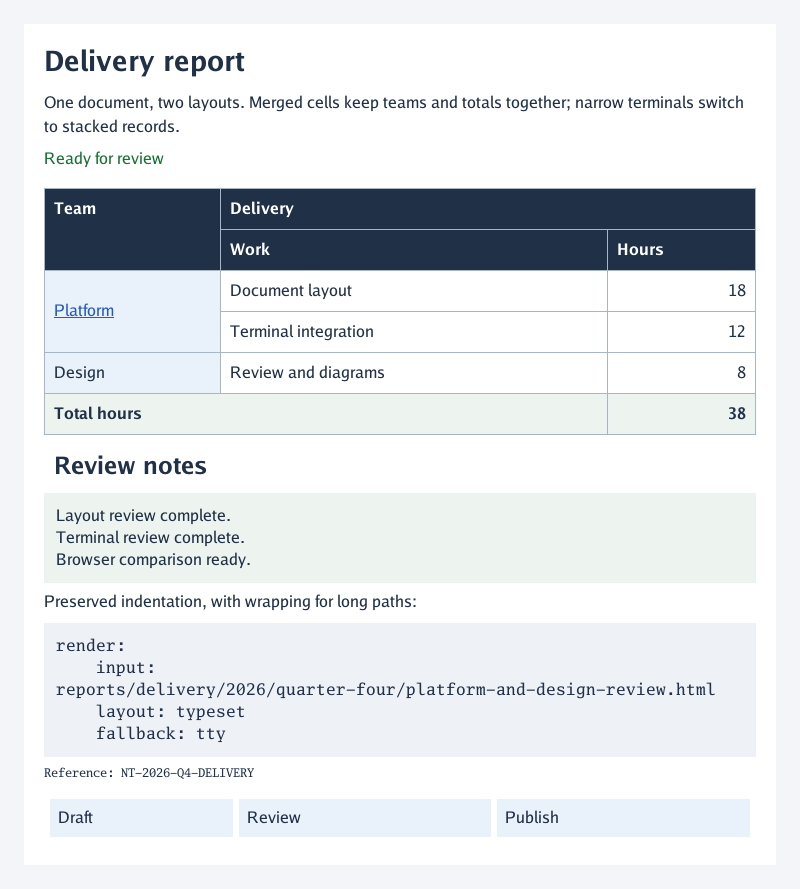
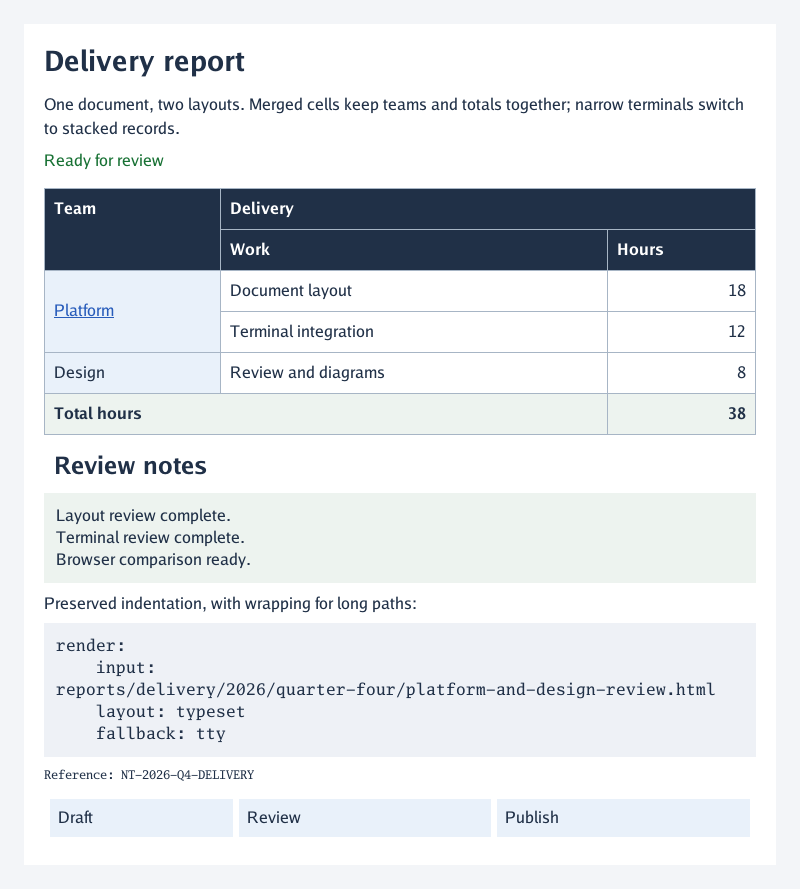
Resolve all runnable WPT failures for Phase 1 conformance
Use CSS black as the initial root foreground color, size auto-width tables to their shrink-to-fit preferred width while respecting min/max constraints and horizontal auto margins, and preserve line-breaking opportunities across normal whitespace between adjacent nowrap spans. Advance all 7 failing WPT cases to PASS (125 PASS, 0 FAIL, 75 UNSUPPORTED).

Changed region(s): [[0.0625, 0.0911, 0.9375, 0.2126], [0.0625, 0.6682, 0.5312, 0.6985], [0.0625, 0.8504, 0.3125, 0.8808]]

diff --git a/examples/demo/documents/invoice.html b/examples/demo/documents/invoice.html
@@ -5,7 +5,7 @@ h2 { font-size: 20px; }
 .paper { background: #ffffff; padding: 24px; }
 .label { color: #66758b; font-size: 14px; }
 .note { background: #eaf1ff; padding: 16px; margin: 8px; }
-table { border-collapse: collapse; }
+table { width: 100%; border-collapse: collapse; }
 th { padding: 12px; background: #203047; color: #ffffff; }
 td { padding: 12px; border: 1px solid #dce3ed; }
 .amount { text-align: right; vertical-align: middle; }

diff --git a/examples/demo/sample.html b/examples/demo/sample.html
@@ -1,5 +1,6 @@
 <style>
 body { margin:0; padding: 24px; background: #f4f6fb; color: #233148; }
+table { width: 100%; }
 h1 { color: #2948a0; }
 .card { padding: 18px; margin: 12px; background: #ffffff; border: 1px solid #d3dced; }
 th { background: #dce5fa; padding: 10px; }

diff --git a/examples/demo/documents/status-report.html b/examples/demo/documents/status-report.html
@@ -1,5 +1,6 @@
 <style>
 body { margin:0; padding: 28px; background: #111b2b; color: #dce6f3; }
+table { width: 100%; }
 h1 { font-size: 32px; color: #ffffff; }
 h2 { font-size: 22px; color: #86c8ff; }
 .muted { color: #9aafc7; font-size: 14px; }

diff --git a/examples/demo/documents/guide.html b/examples/demo/documents/guide.html
@@ -1,5 +1,6 @@
 <style>
 body { margin:0; padding: 24px; background: #f4f6fb; color: #233148; }
+table { width: 100%; }
 h1 { color: #2948a0; }
 h2 { color: #2948a0; }
 pre { background: #e6ecf5; padding: 16px; }

diff --git a/document/table.go b/document/table.go
@@ -98,23 +98,23 @@ func tableWidths(minimum, preferred []int, width int) []int {
 	return base
 }
 
-func (l *layout) table(n *node, x, y, w, parentHeight int, s style) int {
-	for _, child := range n.children {
-		if child.tag == "caption" {
-			y = l.block(child, x, y, w, parentHeight, s)
-		}
-	}
+func (l *layout) table(n *node, x, y, w, parentHeight int, autoWidth bool, minWidth int, s style) (int, int) {
 	rows, columns, err := l.d.collectTable(n, s, l.tableStep)
 	if err != nil {
 		l.err = err
-		return y
+		return y, w
 	}
 	if columns > 256 || columns > w {
 		l.err = limitError("table columns")
-		return y
+		return y, w
 	}
 	if columns == 0 {
-		return y
+		for _, child := range n.children {
+			if child.tag == "caption" {
+				y = l.block(child, x, y, w, parentHeight, s)
+			}
+		}
+		return y, w
 	}
 	minimum, preferred := make([]int, columns), make([]int, columns)
 	sx, sy := s.spacing[0], s.spacing[1]
@@ -132,7 +132,28 @@ func (l *layout) table(n *node, x, y, w, parentHeight int, s style) int {
 		}
 	}
 	if l.err != nil {
-		return y
+		return y, w
+	}
+	if autoWidth {
+		pref := sx * (columns + 1)
+		for _, v := range preferred {
+			pref += v
+		}
+		for _, child := range n.children {
+			if child.tag == "caption" {
+				cs := l.d.styled(child, s)
+				if cs.display != "none" {
+					_, b := l.preferredCell(child, cs, w)
+					pref = max(pref, b)
+				}
+			}
+		}
+		w = max(columns+sx*(columns+1), min(w, max(minWidth, pref)))
+	}
+	for _, child := range n.children {
+		if child.tag == "caption" {
+			y = l.block(child, x, y, w, parentHeight, s)
+		}
 	}
 	widths := tableWidths(minimum, preferred, w-sx*(columns+1))
 	xs := []int{x + sx}
@@ -143,7 +164,7 @@ func (l *layout) table(n *node, x, y, w, parentHeight int, s style) int {
 	if s.collapse {
 		grid = l.collapseGrid(rows, columns, s)
 		if l.err != nil {
-			return y
+			return y, w
 		}
 	}
 	type laidCell struct {
@@ -173,7 +194,7 @@ func (l *layout) table(n *node, x, y, w, parentHeight int, s style) int {
 	for ri, row := range rows {
 		for i, cell := range row.cells {
 			if !l.tableStep() {
-				return y
+				return y, w
 			}
 			sp := row.spans[i]
 			width := xs[sp.col+sp.cols] - xs[sp.col] - sx
@@ -190,8 +211,8 @@ func (l *layout) table(n *node, x, y, w, parentHeight int, s style) int {
 				}
 				cs.bw = 0
 			}
-			cs.bw = min(cs.bw, max(0, (width-1)/2))
-			room := max(0, width-2*cs.bw-1)
+			cs.bw = min(cs.bw, max(0, width/2))
+			room := max(0, width-2*cs.bw)
 			if padding[1]+padding[3] > room {
 				sides := apportion([]int{padding[3], padding[1]}, room)
 				padding[3], padding[1] = sides[0], sides[1]
@@ -216,10 +237,10 @@ func (l *layout) table(n *node, x, y, w, parentHeight int, s style) int {
 	}
 	if rowY[len(rowY)-1] > l.d.limits.Height {
 		l.err = limitError("table height")
-		return y
+		return y, w
 	}
 	if l.err != nil {
-		return y
+		return y, w
 	}
 	for ri, row := range rows {
 		top, bottom := rowY[ri], rowY[ri+1]-sy
@@ -266,5 +287,5 @@ func (l *layout) table(n *node, x, y, w, parentHeight int, s style) int {
 	if grid != nil {
 		grid.paint(l, x, widths, rowY)
 	}
-	return rowY[len(rowY)-1]
+	return rowY[len(rowY)-1], w
 }

diff --git a/document/layout.go b/document/layout.go
@@ -113,7 +113,7 @@ func (d *Document) Render(ctx context.Context, o Options) (*Result, error) {
 			f.Close()
 		}
 	}()
-	h := l.block(d.root, 0, 0, o.Width, -1, style{rootSize: 16, size: 16, line: 22, fg: color.RGBA{30, 36, 46, 255}})
+	h := l.block(d.root, 0, 0, o.Width, -1, style{rootSize: 16, size: 16, line: 22, fg: color.RGBA{0, 0, 0, 255}})
 	if l.err != nil {
 		return nil, l.err
 	}
@@ -279,7 +279,26 @@ func (l *layout) blockStyled(n *node, x, y, w, parentHeight int, s style) int {
 	if kind, source := diagramSource(n); kind != "" {
 		cy = l.diagram(n, kind, source, cx, cy, cw, height, s)
 	} else if n.tag == "table" {
-		cy = l.table(n, cx, cy, cw, height, tableStyle)
+		minContent := 0
+		if s.minWidth.definite(basisWidth) {
+			minContent = s.minWidth.resolve(basisWidth, 16384)
+			if s.borderBox {
+				minContent = max(0, minContent-extra)
+			}
+		}
+		cy, cw = l.table(n, cx, cy, cw, height, !tableStyle.width.definite(basisWidth), minContent, tableStyle)
+		used := min(w, cw+extra)
+		if !tableStyle.width.definite(basisWidth) && s.margin[3].unit == lengthAuto {
+			spare := max(0, w-used)
+			if s.margin[1].unit == lengthAuto {
+				spare /= 2
+			}
+			x += spare
+			for i := opStart + 1; i < len(l.ops); i++ {
+				l.ops[i].box.translate(image.Pt(spare, 0))
+			}
+		}
+		w = used
 	} else if n.tag == "ul" || n.tag == "ol" {
 		index := listStart(n)
 		for _, child := range n.children {
@@ -456,6 +475,7 @@ func (l *layout) flow(nodes []*node, x, y, w int, s style) int {
 		lineReady = true
 	}
 	pendingSpace := false
+	spaceWraps := false
 	preStart := true
 	preColumn := 0
 	prefix := "\n"
@@ -483,6 +503,7 @@ func (l *layout) flow(nodes []*node, x, y, w int, s style) int {
 		lineReady = false
 		lineStart = len(l.ops)
 		hasText = false
+		spaceWraps = false
 	}
 	var visit func(*node, style)
 	visit = func(n *node, st style) {
@@ -626,7 +647,11 @@ func (l *layout) flow(nodes []*node, x, y, w int, s style) int {
 					space = glyphAdvance(f, ' ', st.wordSpacing)
 				}
 				ww := measureText(f, word, st.wordSpacing)
-				if st.whiteSpace != "nowrap" && px > x && px+space+ww > x+w {
+				checkW := ww
+				if st.whiteSpace == "nowrap" && spaceWraps {
+					checkW = measureText(f, strings.Join(strings.Fields(text), " "), st.wordSpacing)
+				}
+				if (st.whiteSpace != "nowrap" || spaceWraps) && px > x && px+space+checkW > x+w {
 					newline()
 					prepareLine()
 					space = 0
@@ -656,6 +681,7 @@ func (l *layout) flow(nodes []*node, x, y, w int, s style) int {
 				}
 				emit()
 				pendingSpace = false
+				spaceWraps = false
 			}
 			if i < 0 {
 				break
@@ -668,6 +694,9 @@ func (l *layout) flow(nodes []*node, x, y, w int, s style) int {
 					pendingSpace = false
 				} else {
 					pendingSpace = true
+					if st.whiteSpace != "nowrap" {
+						spaceWraps = true
+					}
 				}
 				text = text[1:]
 			}

diff --git a/document/units_colors_test.go b/document/units_colors_test.go
@@ -129,7 +129,7 @@ func TestZeroWidthDoesNotPaintBackground(t *testing.T) {
 }
 
 func TestTranslucentTableBackgroundPaintsOnce(t *testing.T) {
-	r := renderCSS(t, `<table style="background:rgba(255,0,0,.5)"><tr><td style="height:20px"></td></tr></table>`)
+	r := renderCSS(t, `<table style="background:rgba(255,0,0,.5)"><tr><td style="width:20px;height:20px"></td></tr></table>`)
 	if c := r.Image.RGBAAt(5, 5); c != (color.RGBA{255, 127, 127, 255}) {
 		t.Fatal("table background applied again on row", c)
 	}
@@ -144,11 +144,22 @@ func TestPhysicalAndPixelLayoutEquivalent(t *testing.T) {
 }
 
 func TestAlphaBorderCornersPaintOnce(t *testing.T) {
-	for _, source := range []string{`<article style="width:20px;height:20px;border:rgba(255,0,0,.5) solid 2px"></article>`, `<table><tr><td style="height:20px;border:rgba(255,0,0,.5) solid 2px"></td></tr></table>`} {
+	for _, source := range []string{`<article style="width:20px;height:20px;border:rgba(255,0,0,.5) solid 2px"></article>`, `<table><tr><td style="width:20px;height:20px;border:rgba(255,0,0,.5) solid 2px"></td></tr></table>`} {
 		r := renderCSS(t, source)
 		corner, edge := r.Image.RGBAAt(0, 0), r.Image.RGBAAt(5, 0)
 		if corner != edge || corner != (color.RGBA{255, 127, 127, 255}) {
 			t.Fatal("overlapping border corners", corner, edge)
 		}
+	}
+}
+
+func TestDefaultForegroundIsCSSBlack(t *testing.T) {
+	r := renderCSS(t, `<div style="width:20px;height:20px;border:2px solid">text</div>`)
+	black := color.RGBA{0, 0, 0, 255}
+	if got := r.Image.RGBAAt(0, 0); got != black {
+		t.Fatalf("expected default border currentColor black, got %v", got)
+	}
+	if got := tagged(r, "text").Color; got != black {
+		t.Fatalf("expected default text color black, got %v", got)
 	}
 }

diff --git a/document/table_intrinsic.go b/document/table_intrinsic.go
@@ -86,13 +86,17 @@ func (l *layout) preferredCell(n *node, s style, basis int) (int, int) {
 			l.err = err
 			return 1, 1
 		}
+		sx := s.spacing[0]
+		if s.collapse {
+			sx = 0
+		}
 		mins, prefs := make([]int, cols), make([]int, cols)
 		for _, row := range rows {
 			for i, cell := range row.cells {
 				a, b := l.preferredCell(cell, row.styles[i], basis)
 				sp := row.spans[i]
-				spreadRequirement(mins, sp.col, sp.cols, a)
-				spreadRequirement(prefs, sp.col, sp.cols, b)
+				spreadRequirement(mins, sp.col, sp.cols, max(1, a-sx*(sp.cols-1)))
+				spreadRequirement(prefs, sp.col, sp.cols, max(1, b-sx*(sp.cols-1)))
 			}
 		}
 		for i := range mins {
@@ -121,7 +125,11 @@ func (l *layout) preferredCell(n *node, s style, basis int) (int, int) {
 		flushLine()
 	}
 	p := resolveEdges(s.padding, basis)
-	extra := p[1] + p[3] + 2*s.bw
+	bw := s.bw
+	if n.tag == "table" && s.collapse {
+		bw = 0
+	}
+	extra := p[1] + p[3] + 2*bw
 	if n.tag != "td" && n.tag != "th" {
 		m := resolveEdges(s.margin, basis)
 		extra += m[1] + m[3]

diff --git a/document/whitespace_test.go b/document/whitespace_test.go
@@ -101,3 +101,18 @@ func TestAnchoredPreInitialNewline(t *testing.T) {
 		t.Fatal("anchor lost")
 	}
 }
+
+func TestAdjacentNowrapSpanWrapping(t *testing.T) {
+	r := renderCSS(t, `<div style="width:90px;white-space:normal"><span style="white-space:nowrap">alpha </span> <span style="white-space:nowrap">bravo </span> <span style="white-space:nowrap">charlie </span></div>`)
+	boxes := boxesWithTag(r, "text")
+	if len(boxes) < 3 || boxes[len(boxes)-1].Bounds.Min.Y <= boxes[0].Bounds.Min.Y {
+		t.Fatalf("expected adjacent nowrap spans separated by normal spaces to wrap: %v", boxes)
+	}
+	text, err := r.TTY(context.Background(), 10)
+	if err != nil {
+		t.Fatal(err)
+	}
+	if !strings.Contains(text, "\n") {
+		t.Fatalf("expected TTY wrapping between nowrap spans: %q", text)
+	}
+}

diff --git a/document/table_intrinsic_test.go b/document/table_intrinsic_test.go
@@ -120,3 +120,15 @@ func TestIntrinsicImageWidth(t *testing.T) {
 		t.Fatal("image intrinsic width ignored")
 	}
 }
+func TestAutoWidthTableShrinksAndCenters(t *testing.T) {
+	r := renderCSS(t, `<table style="border:10px solid green;border-spacing:12px;margin:0 auto"><tr><td style="border:4px solid green;padding:8px 16px"></td></tr></table>`)
+	tb := tagged(r, "table")
+	td := tagged(r, "td")
+	// td outer width = 2*16 + 2*4 = 40; table outer width = 2*10 + 2*12 + 40 = 84.
+	if td.Bounds.Dx() != 40 || tb.Bounds.Dx() != 84 {
+		t.Fatalf("unexpected auto-table bounds: table=%v td=%v", tb.Bounds, td.Bounds)
+	}
+	if tb.Bounds.Min.X != (r.Image.Bounds().Dx()-84)/2 {
+		t.Fatalf("expected centered auto-width table, got %v", tb.Bounds)
+	}
+}

diff --git a/document/tty_whitespace.go b/document/tty_whitespace.go
@@ -66,7 +66,7 @@ func wrapTTYRuns(runs []ttyRun, width int) string {
 		if pendingSpace && lineWidth > 0 {
 			space = 1
 		}
-		wrap := false
+		wrap := pendingSpace
 		for _, u := range word {
 			wrap = wrap || u.wrap
 		}

diff --git a/internal/conformance/README.md b/internal/conformance/README.md
@@ -15,23 +15,23 @@ Open `artifacts/conformance/index.html` for results and failure images. `report.
 
 | Result | Cases | Meaning |
 |---|---:|---|
-| PASS | 118 | Audited selectors/cascade, colors, dimensions, zero font sizes, Ahem typography, and other core document cases. |
-| FAIL | 7 | Four default-foreground mismatches, two auto-width table differences, and adjacent-nowrap wrapping. |
+| PASS | 125 | Audited selectors/cascade, colors, dimensions, zero font sizes, Ahem typography, auto-width tables, and core document cases. |
+| FAIL | 0 | Known rendering discrepancies in runnable cases. |
 | UNSUPPORTED | 75 | Required features outside the subset, including dependencies in references; never counted as passes. |
 | ERROR | 0 | Harness errors, missing fixtures, or rejected prerequisites. |
 
 | Feature area | PASS | FAIL | UNSUPPORTED |
 |---|---:|---:|---:|
-| Boxes and positioning | 32 | 3 | 15 |
-| Colors | 40 | 1 | 1 |
-| Selectors and cascade | 31 | 1 | 12 |
+| Boxes and positioning | 35 | 0 | 15 |
+| Colors | 41 | 0 | 1 |
+| Selectors and cascade | 32 | 0 | 12 |
 | Tables | 1 | 0 | 2 |
-| Typography and whitespace | 14 | 2 | 43 |
+| Typography and whitespace | 16 | 0 | 43 |
 | Units (JavaScript testharness cases) | 0 | 0 | 2 |
 
 The corpus contains **200 selected HTML/CSS cases**, expanded from 41. It samples consecutive numeric ranges for class/ID/descendant selectors, cascade, font/spacing syntax, min/max dimensions, and RGB/HSL/hex colors, plus explicit gap cases. Only upstream tests with reference documents were added; cases with unsupported prerequisites were retained. Many cases exercise syntax variants of the same feature, so case counts do not measure feature completeness. Selection and prerequisites were reviewed before pixel baselines were recorded.
 
-**118/125 runnable cases pass (94.4%)**, or **118/200 selected cases (59%)** including unsupported cases. Neither percentage measures the full HTML/CSS suite. Native and WASM run the same corpus. HTML, JSON, and CLI reports include counts by feature area.
+**125/125 runnable cases pass (100%)**, or **125/200 selected cases (62.5%)** including unsupported cases. Neither percentage measures the full HTML/CSS suite. Native and WASM run the same corpus. HTML, JSON, and CLI reports include counts by feature area.
 
 The manifest pins revision `ffe56d4420d270941329689aff42d925f615d0b4` and SHA-256 hashes for every vendored file. Original fixture bytes and upstream `LICENSE.md` are retained under `testdata/wpt`. Unsupported cases document gaps such as inline box geometry, attribute/pseudo selectors, generated content, per-side borders, synthetic Ahem variants, and JavaScript testharness execution.
 
@@ -60,6 +60,4 @@ Selector/cascade combinations, whitespace modes, and merged-table geometry/TTY o
 
 Cases opt into `ahem: true` to use the original pinned `fonts/Ahem.ttf` through `document.Options.Fonts`. Only the accompanying `/fonts/ahem.css` stylesheet is accepted, and only when explicitly enabled. No stylesheet fetching or general `@font-face` implementation is involved. Other fonts use the renderer's usual embedded source. Synthetic bold/italic Ahem variants are rejected. See [Ahem provenance and license](AHEM-LICENSE.md). Local tests independently assert exact Ahem square pixels and advances, half-leading, zero/short line heights, and positive/negative word spacing; those tests do not count as upstream passes.
 
-Images require explicit per-case `assets` paths, pinned hashes, and bounded decoding. Paths cannot resolve to network URLs or escape the fixture tree. Missing, unpinned, or corrupt images fail instead of silently rendering alt text. Per-document decoding is limited to 16 images, 4MiB encoded bytes, and four million pixels. Fonts are limited to 1MiB in this harness. Ordinary tests and reports perform no network access.
-
-The two table failures remain visible because their references expand auto-width tables to the container width instead of using intrinsic widths. Four other failures compare explicit CSS black to nthtml's dark default foreground; Ahem rectangle geometry itself agrees. The remaining failure demonstrates lost line-break opportunities between adjacent nowrap spans. Original documents are never rewritten to hide those differences.
+Images require explicit per-case `assets` paths, pinned hashes, and bounded decoding. Paths cannot resolve to network URLs or escape the fixture tree. Missing, unpinned, or corrupt images fail instead of silently rendering alt text. Per-document decoding is limited to 16 images, 4MiB encoded bytes, and four million pixels. Fonts are limited to 1MiB in this harness. Ordinary tests and reports perform no network access. Original documents are never rewritten to hide rendering differences.
